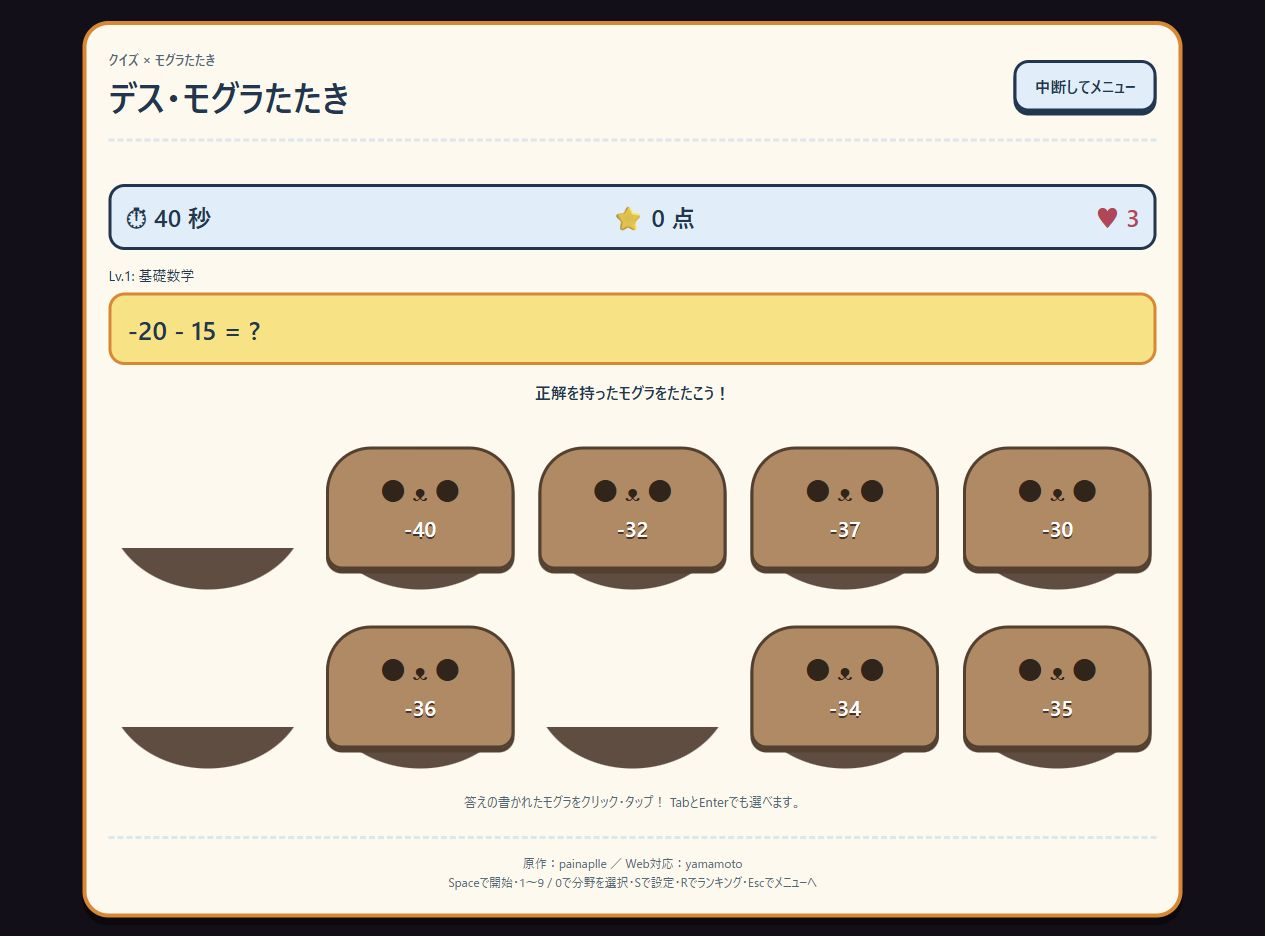
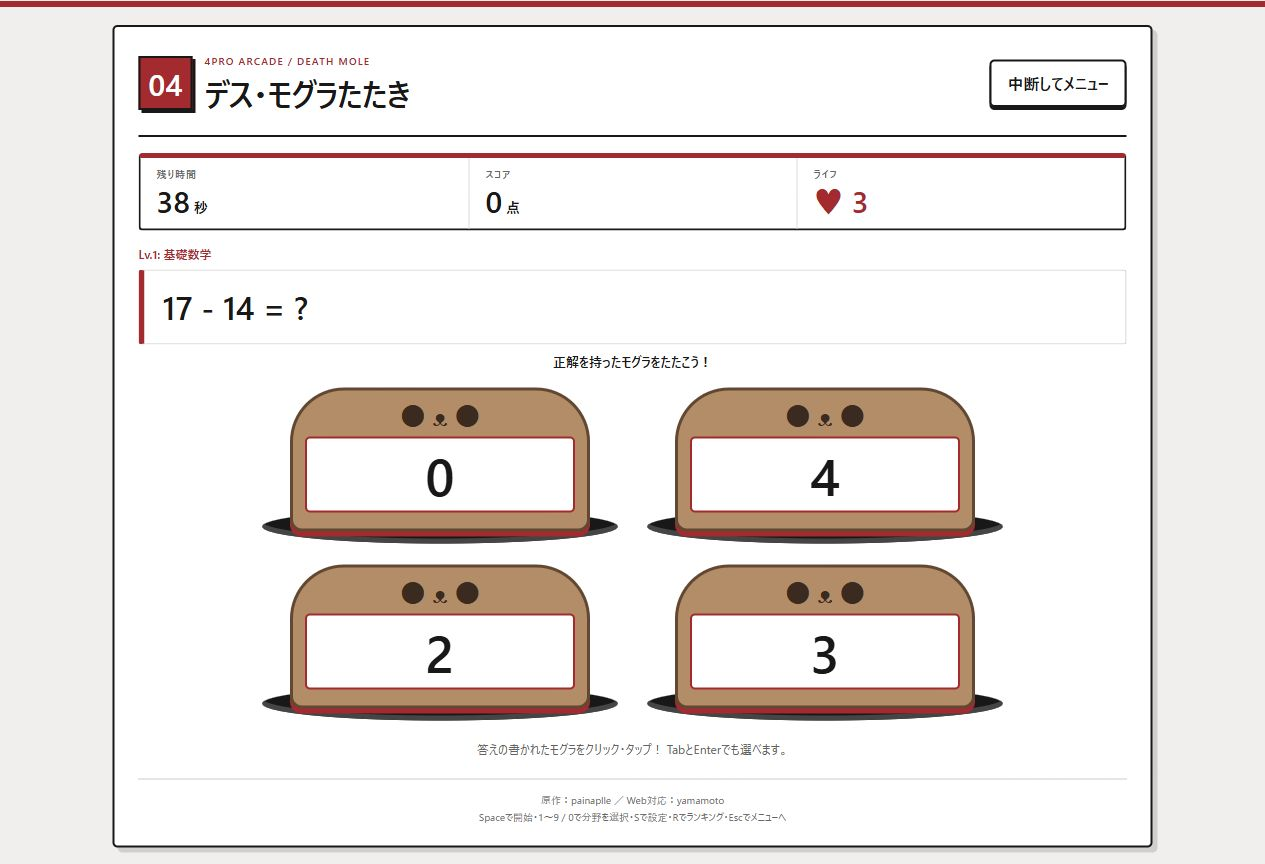
Refresh mole arcade UI with four brown targets and larger answers

diff --git a/games/local/tesuto/web/style.css b/games/local/tesuto/web/style.css
@@ -1,6 +1,33 @@
-:root{--bg:rgb(20,15,25);--accent:rgb(235,130,20);--ink:#183651;--font:system-ui,"Meiryo",sans-serif;color-scheme:light}
-*{box-sizing:border-box}[hidden]{display:none!important}body{margin:0;background:var(--bg);font-family:var(--font);color:var(--ink);padding:20px}main{max-width:1100px;margin:auto;background:#fff9ed;border:4px solid var(--accent);border-radius:26px;box-shadow:0 8px 0 #0006;padding:22px}header{display:flex;justify-content:space-between;gap:16px;align-items:center;border-bottom:3px dashed #d7e7ec;padding-bottom:14px}h1{font-size:clamp(22px,4vw,36px);margin:4px 0}h2{margin:0 0 14px}.eyebrow{font-size:13px;font-weight:800;color:#486879}p{line-height:1.6}button,input,select{font:inherit}button{border:3px solid var(--ink);border-radius:15px;padding:12px 18px;font-weight:900;background:#dceffa;color:var(--ink);box-shadow:0 4px var(--ink);cursor:pointer;transition:transform .12s,background .12s}button:hover:not(:disabled){background:#c2e7fb;transform:translateY(-2px)}button:active:not(:disabled){transform:translateY(3px);box-shadow:0 1px var(--ink)}button:disabled{opacity:.5;cursor:default}button:focus-visible,input:focus-visible,select:focus-visible{outline:4px solid #b660da;outline-offset:3px}.primary{background:#ffe178}.primary:hover:not(:disabled){background:#ffd252}.danger{background:#ffd6d0}.actions{display:flex;flex-wrap:wrap;gap:14px;margin:20px 0}.menu-banner{display:flex;align-items:center;gap:26px;background:#e7f7fc;border-radius:20px;padding:20px;margin-top:18px}.menu-banner p{margin:4px 0}.mascot{font-size:80px}.small-heading{font-size:18px}.levels{display:grid;grid-template-columns:repeat(2,minmax(0,1fr));gap:14px}.level{text-align:left;background:#eff7dc;padding:15px}.level strong{display:block;font-size:18px}.level small{display:block;color:#405666;line-height:1.5;margin-top:5px}.level.selected{background:#ffe178;border-color:var(--accent)}#notice{margin:10px 0;color:#912d43;min-height:1.4em}.dashboard{display:flex;gap:10px;justify-content:space-between;flex-wrap:wrap;background:#dceffa;border:3px solid var(--ink);border-radius:16px;padding:14px;font-size:clamp(16px,2.5vw,24px);font-weight:800;margin-top:10px}#lives{color:#c83a56}.level-name{font-size:14px;margin:14px 0 6px}.question{padding:16px;background:#ffe178;border:3px solid var(--accent);border-radius:16px;font-size:clamp(18px,3vw,26px);overflow-wrap:anywhere}.feedback{text-align:center;font-weight:900;min-height:1.6em;margin:10px}.holes{display:grid;grid-template-columns:repeat(5,minmax(0,1fr));gap:14px;padding:10px 0}.hole{min-width:0;background:linear-gradient(transparent 75%,#654c3f 75%);border-radius:50%;height:165px;display:flex;align-items:flex-end;justify-content:center;padding:0 5px 20px}.mole{width:100%;min-width:0;min-height:123px;background:#bb875f;color:#fff;border:3px solid #5a3f2d;box-shadow:0 4px #5a3f2d;border-radius:45px 45px 16px 16px;padding:12px 8px;position:relative;animation:pop .18s ease-out}.mole:before{content:"● ᴥ ●";display:block;color:#352319;font-size:26px;margin-bottom:7px}.mole span{font-size:clamp(14px,1.9vw,21px);font-weight:900;text-shadow:0 2px #4a3123;overflow-wrap:anywhere;line-height:1.35;display:block}.mole:hover:not(:disabled){background:#ce9567}.mole.hit{background:#df6571}.mole.hit:before{content:"× ᴥ ×"}.help{text-align:center;font-size:13px;color:#486879}.panel{padding:24px 8px}.result-icon{font-size:64px}#result{text-align:center}#name-form{display:flex;flex-direction:column;gap:14px;max-width:430px;margin:20px auto}input,select{border:2px solid var(--ink);border-radius:10px;padding:10px;min-width:0;max-width:100%;background:white;color:var(--ink)}input[type=color]{height:52px;width:100%}.settings-grid{display:grid;grid-template-columns:repeat(2,minmax(0,1fr));gap:18px}label{display:flex;flex-direction:column;gap:8px;font-weight:800}.preview{background:var(--bg);border:4px solid var(--accent);border-radius:18px;text-align:center;margin-top:22px;padding:22px;color:white;font-family:var(--font)}.preview p{color:var(--ink);background:#fff9ed;padding:12px;border-radius:10px}.rank-filters{display:flex;flex-wrap:wrap;gap:16px;margin:20px 0}.table-wrap{overflow:auto}table{border-collapse:collapse;width:100%;text-align:left}th,td{padding:12px 8px;border-bottom:2px solid #d7e7ec;font-size:15px;overflow-wrap:anywhere}th{background:#e7f7fc}td:nth-child(2){max-width:150px}footer{border-top:3px dashed #d7e7ec;margin-top:24px;padding-top:14px;font-size:12px;color:#486879;text-align:center;line-height:1.6}footer span{display:block}@keyframes pop{from{transform:translateY(20px) scale(.85)}to{transform:none}}
-dialog{max-width:min(90vw,440px);border:4px solid var(--ink);border-radius:20px;background:#fff9ed;color:var(--ink);padding:24px}dialog::backdrop{background:#18365199}
-@media(max-width:750px){body{padding:10px}main{padding:14px}.holes{gap:8px}.hole{height:155px}.mole{min-height:115px;padding:10px 5px}.mole:before{font-size:20px}header{flex-wrap:wrap}.levels{gap:10px}.level strong{font-size:16px}.mascot{font-size:55px}.menu-banner{padding:14px;gap:14px}}
-@media(max-width:500px){body{padding:6px}main{padding:12px;border-radius:18px}.levels,.settings-grid{grid-template-columns:1fr}.holes{grid-template-columns:repeat(2,minmax(0,1fr));gap:8px}.hole{height:145px}.mole{min-height:113px}.mole span{font-size:17px}.actions button{flex:1;padding:11px 12px}.menu-banner{align-items:flex-start}.mascot{font-size:40px}.menu-banner h2{font-size:20px}th,td{font-size:12px;padding:9px 5px}}
-@media(prefers-reduced-motion:reduce){*,*:before{animation:none!important;transition:none!important}}
+:root{--bg:#f0efed;--accent:#b71929;--ink:#181818;--font:system-ui,"Meiryo",sans-serif;color-scheme:light}
+*{box-sizing:border-box}[hidden]{display:none!important}
+body{margin:0;background:var(--bg);font-family:var(--font);color:var(--ink);padding:18px;border-top:6px solid var(--accent)}
+main{max-width:1040px;margin:auto;background:#fff;border:2px solid var(--ink);border-radius:5px;box-shadow:5px 5px 0 #18181826;padding:20px 24px}
+header{display:flex;justify-content:space-between;gap:16px;align-items:center;border-bottom:2px solid var(--ink);padding-bottom:16px}
+.game-title{display:flex;align-items:center;gap:12px}.game-number{display:grid;place-items:center;width:54px;height:54px;background:var(--accent);color:#fff;border:2px solid var(--ink);box-shadow:3px 3px var(--ink);font-size:30px;font-weight:900;flex-shrink:0}
+h1{font-size:clamp(22px,3.5vw,32px);margin:4px 0;font-weight:900;letter-spacing:-.03em}h2{margin:0 0 14px}.eyebrow{font-size:10px;letter-spacing:.12em;font-weight:900;color:var(--accent)}p{line-height:1.6}
+button,input,select{font:inherit}button{min-height:44px;border:2px solid var(--ink);border-radius:5px;padding:11px 16px;font-weight:900;background:#fff;color:var(--ink);box-shadow:0 3px var(--ink);cursor:pointer;transition:transform .12s,background .12s}
+button:hover:not(:disabled){background:#f5e4e6;transform:translateY(-2px)}button:active:not(:disabled){transform:translateY(3px);box-shadow:none}button:disabled{opacity:.5;cursor:default}button:focus-visible,input:focus-visible,select:focus-visible{outline:3px solid var(--accent);outline-offset:3px}
+.primary{background:var(--accent);color:#fff}.primary:hover:not(:disabled){background:#8e1120}.danger{background:#181818;color:#fff}.danger:hover:not(:disabled){background:#414141}
+.actions{display:flex;flex-wrap:wrap;gap:12px;margin:20px 0}.menu-banner{display:flex;align-items:center;gap:26px;background:#f4f3f1;border-left:5px solid var(--accent);padding:22px;margin-top:18px}.menu-banner h2{margin:8px 0;font-size:25px}.menu-banner p{margin:4px 0}.banner-label{color:var(--accent);font-size:12px;font-weight:900;letter-spacing:.06em}
+.mascot{position:relative;display:grid;place-items:center;width:105px;height:100px;flex-shrink:0;border-radius:50% 50% 18% 18%;background:#bd8b62;color:#3f291d;font-size:25px;border-bottom:10px solid var(--accent);box-shadow:0 7px 0 #ccc}
+.small-heading{font-size:17px;border-left:4px solid var(--accent);padding-left:10px}.levels{display:grid;grid-template-columns:repeat(2,minmax(0,1fr));gap:12px}.level{text-align:left;padding:14px}.level strong{display:block;font-size:17px}.level small{display:block;color:#626262;line-height:1.5;margin-top:5px}.level.selected{background:#181818;color:#fff;border-color:#181818;box-shadow:0 3px var(--accent)}.level.selected small{color:#ddd}.level.selected:hover:not(:disabled){background:#333}
+#notice{color:#a01122;font-weight:800}#notice:empty{display:none}
+.dashboard{display:grid;grid-template-columns:1fr 1fr 1fr;border:2px solid var(--ink);border-top:5px solid var(--accent);border-radius:4px;font-size:14px;font-weight:800;margin-top:16px;background:#fff}.dashboard>span{padding:9px 16px}.dashboard>span+span{border-left:1px solid #ddd}.dashboard small{display:block;font-size:10px;color:#666;letter-spacing:.08em}.dashboard strong{font-size:30px;font-variant-numeric:tabular-nums;line-height:1.3}#lives{color:var(--accent);white-space:nowrap}
+.level-name{font-size:12px;font-weight:900;color:var(--accent);margin:14px 0 6px}.question{padding:14px 18px;background:#fff;color:#181818;border:1px solid #ccc;border-left:6px solid var(--accent);border-radius:3px;font-size:clamp(22px,3.5vw,32px);overflow-wrap:anywhere;line-height:1.4;margin-bottom:0}
+.feedback{text-align:center;font-weight:900;min-height:1.6em;margin:7px 0;font-size:13px}
+.holes{display:grid;grid-template-columns:repeat(2,minmax(0,1fr));gap:12px 30px;max-width:740px;margin:auto;padding:2px 0 6px}
+.hole{min-width:0;position:relative;min-height:162px;display:flex;align-items:flex-end;justify-content:center;padding:6px 16px 15px}
+.hole::before{content:"";position:absolute;bottom:3px;left:0;right:0;height:34px;border-radius:50%;background:#181818;box-shadow:inset 0 -5px 0 #454545}
+.mole{appearance:none;position:relative;display:flex;flex-direction:column;align-items:center;width:100%;max-width:300px;min-width:0;min-height:144px;background:#bd8b62;color:#3f291d;border:3px solid #69472f;box-shadow:0 5px var(--accent);border-radius:54px 54px 12px 12px;padding:10px 12px 12px;animation:pop .18s ease-out}
+.mole-face{position:relative;display:block;width:110px;max-width:90%;height:30px;margin:0 auto 6px;font-size:26px;line-height:30px;color:#3f291d}.mole-face::before{content:"● ᴥ ●"}.mole-face::after{content:"";position:absolute;left:-10px;right:-10px;top:-15px;height:27px;border:8px solid #bd8b62;border-bottom:0;border-radius:40px;z-index:-1}
+.mole .answer{display:flex;align-items:center;justify-content:center;width:100%;min-height:76px;padding:4px 8px;background:#fff;color:#181818;border:2px solid var(--accent);border-radius:5px;font-size:52px;font-weight:900;font-variant-numeric:tabular-nums;line-height:1.15;overflow-wrap:anywhere}
+.mole.word-answer .answer{font-size:clamp(23px,2.7vw,30px);line-height:1.3}
+.mole:hover:not(:disabled){background:#d5a47a}.mole:hover:not(:disabled) .answer{border-color:#181818}.mole:disabled{opacity:1}.mole:focus-visible{outline-offset:5px;outline:4px solid var(--accent)}.mole.hit{background:#dec0a0;color:#3f291d;box-shadow:none}.mole.hit .mole-face{color:#3f291d}.mole.hit .mole-face::before{content:"× ᴥ ×"}.mole.hit .answer{background:#eee;color:#666}.help{text-align:center;font-size:12px;color:#626262;margin:10px 0}
+.panel{padding:24px 8px}.result-icon{font-size:48px}#result{text-align:center}#result h2{font-size:28px}#result-stats{padding:16px;border-top:2px solid var(--accent);border-bottom:1px solid #ccc;font-weight:800}#name-form{display:flex;flex-direction:column;gap:14px;max-width:430px;margin:20px auto}
+input,select{border:2px solid var(--ink);border-radius:4px;padding:10px;min-width:0;max-width:100%;background:white;color:var(--ink)}input[type=color]{height:52px;width:100%}.settings-grid{display:grid;grid-template-columns:repeat(2,minmax(0,1fr));gap:18px}label{display:flex;flex-direction:column;gap:8px;font-weight:800}.preview{background:var(--bg);border:3px solid var(--accent);border-radius:5px;text-align:center;margin-top:22px;padding:22px;color:#181818;font-family:var(--font)}.preview strong{background:#fff;padding:6px 10px}.preview p{color:#181818;background:#fff;padding:12px;border-radius:4px}
+.rank-filters{display:flex;flex-wrap:wrap;gap:16px;margin:20px 0}.table-wrap{overflow:auto}table{border-collapse:collapse;width:100%;text-align:left}th,td{padding:12px 8px;border-bottom:1px solid #ccc;font-size:15px;overflow-wrap:anywhere}th{background:#181818;color:#fff}td:nth-child(2){max-width:150px}tbody tr:first-child{background:#f6e9eb;font-weight:800}
+footer{border-top:1px solid #ccc;margin-top:20px;padding-top:12px;font-size:10px;color:#666;text-align:center;line-height:1.7}footer span{display:block}dialog{max-width:min(90vw,440px);border:3px solid var(--ink);border-top:6px solid var(--accent);border-radius:5px;background:#fff;color:var(--ink);padding:24px}dialog::backdrop{background:#181818b3}
+@keyframes pop{from{transform:translateY(14px) scale(.95)}to{transform:none}}
+@media(max-width:750px){body{padding:10px}main{padding:16px}header{flex-wrap:wrap}.holes{gap:10px 18px}.level strong{font-size:16px}.menu-banner{padding:16px;gap:18px}.mascot{width:80px;height:80px;font-size:22px}}
+@media(max-width:500px){body{padding:6px}main{padding:12px}.game-title{gap:9px}.game-number{width:42px;height:44px;font-size:25px}h1{font-size:22px}.eyebrow{font-size:8px}.levels,.settings-grid{grid-template-columns:1fr}.dashboard>span{padding:8px}.dashboard strong{font-size:24px}.dashboard{font-size:11px}.question{padding:12px;font-size:23px}.holes{gap:12px 10px}.hole{padding:6px 6px 13px;min-height:157px}.mole{padding:10px 7px;min-height:137px;border-radius:42px 42px 10px 10px}.mole-face{font-size:23px;height:26px;line-height:26px;width:94px}.mole .answer{font-size:40px;min-height:74px;padding:5px}.mole.word-answer .answer{font-size:22px}.actions button{flex:1;padding:11px 12px}.menu-banner{align-items:center;gap:12px}.mascot{width:58px;height:65px;font-size:16px}.menu-banner h2{font-size:20px}.menu-banner p{font-size:12px}.banner-label{font-size:10px!important}.feedback{font-size:12px}th,td{font-size:12px;padding:9px 5px}.panel{padding:22px 0}.help{font-size:11px}}
+@media(prefers-reduced-motion:reduce){*,*::before{animation:none!important;transition:none!important}}

diff --git a/launcher/mole-technology.html b/launcher/mole-technology.html
@@ -23,7 +23,7 @@
       <h1 id="title-1" tabindex="-1">モグラの画面と、クイズの中身を分ける。</h1>
       <p class="lead">Webで操作を受け取り、Pythonが出題と正誤を判断します。</p>
       <div class="screen-layout">
-        <figure class="game-figure"><div class="image-frame whole-game"><img src="/showcase/assets/brain-mole-play.png" alt="デス・モグラたたきのプレイ画面。計算問題と答えを持ったモグラ、得点と残り時間。"></div><figcaption>実際のゲーム画面</figcaption></figure>
+        <figure class="game-figure"><div class="image-frame whole-game"><img src="/showcase/assets/brain-mole-play.png" alt="デス・モグラたたきのプレイ画面。赤・黒・白の画面に計算問題、2×2の4匹のモグラ、大きな答えの札、得点と残り時間。"></div><figcaption>実際のゲーム画面</figcaption></figure>
         <div class="technology-cards"><article class="technology html-card"><span class="tech-number">1</span><div><h2>HTML / CSS / JS <small>操作と表示</small></h2><p>問題・モグラ・時間を画面に表示。</p></div></article><article class="technology css-card"><span class="tech-number">2</span><div><h2>Python <small>出題と判定</small></h2><p>問題と選択肢を選び、得点を計算。</p></div></article><article class="technology js-card"><span class="tech-number">3</span><div><h2>Excel <small>問題のデータ</small></h2><p>問題・正解・誤答を表で用意。</p></div></article></div>
       </div>
       <p class="takeaway"><span>ここがポイント</span>画面・ゲームの処理・問題データを分けると、それぞれ編集しやすい。</p>
@@ -32,11 +32,11 @@
     <section class="slide illustrated-slide" id="page-2" aria-labelledby="title-2">
       <div class="slide-heading"><p class="chapter">02 <span>出題から回答までのしくみ</span></p><span class="topic">Excel / ランダム / 通信</span></div>
       <h1 id="title-2" tabindex="-1">問題を読み、答えをモグラに持たせる。</h1>
-      <p class="lead">正解と誤答を、10個の穴の中から選んだ場所に出します。</p>
+      <p class="lead">正解1匹と誤答3匹を、2×2の4個の穴にランダムに出します。</p>
 <ol class="flow" aria-label="処理の順番"><li><span>1</span><b>問題を用意</b><small>Excelや計算で作成</small></li><li><span>2</span><b>モグラを出す</b><small>穴と答えを選ぶ</small></li><li><span>3</span><b>答えをタップ</b><small>穴の番号を送信</small></li><li><span>4</span><b>正誤を判定</b><small>Pythonが得点更新</small></li></ol>
       <div class="concept-layout">
         <div class="diagram-panel quiz-diagram" role="img" aria-label="説明用の例。問題3足す4の正解7と誤答6と8をモグラに割り当て、正解のモグラを押すとPythonが判定する。"><span class="diagram-label">説明用の問題</span><div class="quiz-question">3 ＋ 4 ＝ ?</div><div class="answer-moles"><div><span>● ᴥ ●</span><b>6</b></div><div class="correct-mole"><span>● ᴥ ●</span><b>7</b><small>正解</small></div><div><span>● ᴥ ●</span><b>8</b></div></div><p>配置をランダムに選ぶ → タップを判定</p></div>
-        <div class="explain"><p class="big-equation">Excelの問題表を <strong>Pythonで読み込む</strong></p><p>openpyxlというライブラリを使用。<br>基礎数学では、四則演算の問題を<br>自動でつくる処理もあります。</p><div class="canvas-note"><b>毎回、場所が変わる</b><p>2〜10匹をランダムに配置。<br>答えずに待つと2〜4秒で出し直します。</p></div></div>
+        <div class="explain"><p class="big-equation">Excelの問題表を <strong>Pythonで読み込む</strong></p><p>openpyxlというライブラリを使用。<br>基礎数学では、四則演算の問題を<br>自動でつくる処理もあります。</p><div class="canvas-note"><b>毎回、場所が変わる</b><p>4匹の答えをランダムに配置。<br>答えずに待つと2〜4秒で出し直します。</p></div></div>
       </div>
       <p class="takeaway"><span>ここがポイント</span>問題のデータと、ランダムな配置を組み合わせると、出題を変えられる。</p>
     </section>

diff --git a/games/local/tesuto/web/game.js b/games/local/tesuto/web/game.js
@@ -2,7 +2,7 @@
 const $ = id => document.getElementById(id);
 let token='', state=null, view='menu', selectedLevel=1, busy=false, rankRequest=0;
 const fonts=['system-ui,"Meiryo",sans-serif','"Yu Mincho","MS Mincho",serif','"Meiryo","Arial Rounded MT Bold",sans-serif'];
-const defaults={bg_rgb:[20,15,25],accent_rgb:[235,130,20],custom_time:45,custom_lives:3,font_idx:0};
+const defaults={bg_rgb:[240,239,237],accent_rgb:[183,25,41],custom_time:45,custom_lives:3,font_idx:0};
 const rgbHex=rgb=>'#'+rgb.map(v=>v.toString(16).padStart(2,'0')).join('');
 const hexRgb=hex=>[1,3,5].map(i=>parseInt(hex.slice(i,i+2),16));
 function theme(settings){
@@ -45,11 +45,11 @@ function draw(){
  $('time').textContent=Math.ceil(state.time_left);$('score').textContent=state.score;
  $('lives').textContent=`♥ ${state.lives}`;$('level-name').textContent=state.levels[state.level-1][0];
  $('question').textContent=state.question;$('feedback').textContent=state.feedback;
- for(let hole=0;hole<10;hole++){
+ for(let hole=0;hole<state.hole_count;hole++){
   const mole=state.moles.find(m=>m.hole===hole),button=$('mole-'+hole);
   button.hidden=!mole;button.disabled=busy||!mole||mole.hit;
   button.classList.toggle('hit',Boolean(mole?.hit));
-  if(mole){button.querySelector('span').textContent=mole.value;button.setAttribute('aria-label',`穴${hole+1}：${mole.value}`);button.dataset.wave=state.wave;}
+  if(mole){const answer=button.querySelector('.answer');answer.textContent=mole.value;button.classList.toggle('word-answer',!/^[−+\-]?\d+(\.\d+)?$/.test(mole.value)||mole.value.length>5);button.setAttribute('aria-label',`穴${hole+1}：${mole.value}`);button.dataset.wave=state.wave;}
  }
  $('result-stats').textContent=`${state.levels[state.level-1][0]} ／ ${state.score}点 ／ 残り${state.time_left.toFixed(1)}秒 ／ ライフ${state.lives}`;
  $('submit').disabled=busy||state.submitted;$('submit').textContent=state.submitted?'登録しました ✓':'ランキングに登録';
@@ -78,13 +78,14 @@ async function loadRankings(){
  }catch(error){$('notice').textContent=error.message;}
 }
 async function openRanking(){if(!state||busy)return;$('rank-level').value=selectedLevel;show('ranking');await loadRankings();}
-for(let i=0;i<10;i++){
+function buildHoles(count){for(let i=0;i<count;i++){
  const hole=document.createElement('div');hole.className='hole';
  const button=document.createElement('button');button.id='mole-'+i;button.className='mole';button.hidden=true;
- button.append(document.createElement('span'));
+ const face=document.createElement('span');face.className='mole-face';face.setAttribute('aria-hidden','true');
+ const answer=document.createElement('span');answer.className='answer';button.append(face,answer);
  button.addEventListener('click',()=>action('hit',{hole:i,wave:Number(button.dataset.wave)}));
  hole.append(button);$('holes').append(hole);
-}
+}}
 $('start').onclick=start;$('retry').onclick=start;
 $('menu-button').onclick=menu;$('result-menu').onclick=menu;$('rank-menu').onclick=menu;
 $('settings-button').onclick=openSettings;$('ranking-button').onclick=openRanking;
@@ -114,6 +115,7 @@ document.addEventListener('keydown',event=>{
 (async()=>{
  try{
   const session=await request('session');token=session.token;
+  buildHoles(session.state.hole_count);
   session.state.levels.forEach(([title,description],index)=>{
    const button=document.createElement('button');button.className='level';button.dataset.level=index+1;
    const strong=document.createElement('strong');strong.textContent=title;const small=document.createElement('small');small.textContent=description;button.append(strong,small);

diff --git a/games/local/tesuto/web/index.html b/games/local/tesuto/web/index.html
@@ -1,15 +1,15 @@
 <!doctype html>
-<html lang="ja"><head><meta charset="utf-8"><meta name="viewport" content="width=device-width,initial-scale=1"><title>デス・モグラたたき</title><link rel="stylesheet" href="style.css"></head>
+<html lang="ja"><head><meta charset="utf-8"><meta name="viewport" content="width=device-width,initial-scale=1"><meta name="theme-color" content="#b71929"><title>デス・モグラたたき</title><link rel="stylesheet" href="style.css"></head>
 <body><main>
-<header><div><span class="eyebrow">クイズ × モグラたたき</span><h1>デス・モグラたたき</h1></div><button id="menu-button" hidden>中断してメニュー</button></header>
+<header><div class="game-title"><span class="game-number" aria-hidden="true">04</span><div><span class="eyebrow">4PRO ARCADE / DEATH MOLE</span><h1>デス・モグラたたき</h1></div></div><button id="menu-button" hidden>中断してメニュー</button></header>
 <p id="notice" role="status" aria-live="polite"></p>
 <section id="menu" hidden>
- <div class="menu-banner"><span class="mascot" aria-hidden="true">🐹</span><div><h2>正解のモグラをたたこう！</h2><p>正解で＋100点。まちがえるとライフが減るよ。</p><p id="rules"></p></div></div>
+ <div class="menu-banner"><span class="mascot" aria-hidden="true">● ᴥ ●</span><div><p class="banner-label">4匹から、正解をねらえ。</p><h2>正解のモグラをたたこう！</h2><p>正解で＋100点。まちがえるとライフが減るよ。</p><p id="rules"></p></div></div>
  <div class="actions"><button id="start" class="primary" disabled>ゲームスタート ▶</button><button id="ranking-button">🏆 ランキング</button><button id="settings-button">⚙ 設定</button></div>
  <h2 class="small-heading">挑戦する分野を選ぼう</h2><div id="levels" class="levels"></div>
 </section>
 <section id="play" hidden>
- <div class="dashboard"><span>⏱ <strong id="time">45</strong> 秒</span><span>⭐ <strong id="score">0</strong> 点</span><span id="lives"></span></div>
+ <div class="dashboard"><span><small>残り時間</small><strong id="time">45</strong> 秒</span><span><small>スコア</small><strong id="score">0</strong> 点</span><span class="life-stat"><small>ライフ</small><strong id="lives"></strong></span></div>
  <p id="level-name" class="level-name"></p><h2 id="question" class="question"></h2>
  <p id="feedback" class="feedback" aria-live="polite"></p><div id="holes" class="holes" aria-label="回答のモグラ"></div>
  <p class="help">答えの書かれたモグラをクリック・タップ！ TabとEnterでも選べます。</p>

diff --git a/games/local/tesuto/web_game.py b/games/local/tesuto/web_game.py
@@ -8,7 +8,8 @@ import time
 
 from quiz_database import DEFAULT_PATH, QuestionDatabase
 
-DEFAULTS = dict(bg_rgb=[20, 15, 25], accent_rgb=[235, 130, 20], custom_time=45, custom_lives=3, font_idx=0)
+DEFAULTS = dict(bg_rgb=[240, 239, 237], accent_rgb=[183, 25, 41], custom_time=45, custom_lives=3, font_idx=0)
+HOLE_COUNT = 4
 
 
 def integer(value, low, high):
@@ -37,6 +38,9 @@ class Store:
         self.folder = Path(folder)
         self.folder.mkdir(parents=True, exist_ok=True)
         self.settings = validated_settings(self.load('settings.json', Path(original)/'mole_settings.json', DEFAULTS))
+        # 旧標準配色だけを更新し、時間・ライフや独自の配色は保持する。
+        if self.settings['bg_rgb'] == [20, 15, 25] and self.settings['accent_rgb'] == [235, 130, 20]:
+            self.settings.update(bg_rgb=DEFAULTS['bg_rgb'][:], accent_rgb=DEFAULTS['accent_rgb'][:])
         self.rankings = self.load('rankings.json', Path(original)/'mole_rankings.json', {str(i): [] for i in range(1, 11)})
         if not isinstance(self.rankings, dict):
             raise ValueError("ランキングの形式が不正です。")
@@ -118,7 +122,7 @@ class WebGame:
     def spawn(self):
         self.wave += 1
         self.revision += 1
-        holes = self.rng.sample(range(10), self.rng.randint(2, 10))
+        holes = self.rng.sample(range(HOLE_COUNT), HOLE_COUNT)
         self.expires = self.clock() + self.rng.randint(60, 120) / 30
         dummies = self.dummies[:]
         self.rng.shuffle(dummies)
@@ -141,7 +145,7 @@ class WebGame:
         self.tick()
         if self.phase != 'playing':
             raise ValueError("プレイ中だけ回答できます。")
-        hole = integer(data.get('hole'), 0, 9)
+        hole = integer(data.get('hole'), 0, HOLE_COUNT-1)
         if type(data.get('wave')) is not int or data['wave'] != self.wave:
             raise ValueError("モグラが入れ替わりました。もう一度選んでください。")
         mole = next((m for m in self.moles if m['hole'] == hole and not m['hit_until']), None)
@@ -187,5 +191,5 @@ class WebGame:
         self.tick()
         return dict(phase=self.phase, level=self.level, score=self.score, lives=self.lives, time_left=round(self.time_left, 2),
                     wave=self.wave, revision=self.revision, stamp=self.clock(), question=self.question, feedback=self.feedback,
-                    submitted=self.submitted, settings=copy.deepcopy(self.settings), levels=self.database.level_infos,
+                    submitted=self.submitted, settings=copy.deepcopy(self.settings), levels=self.database.level_infos, hole_count=HOLE_COUNT,
                     moles=[dict(hole=m['hole'], value=m['value'], hit=bool(m['hit_until'])) for m in self.moles] if self.phase == 'playing' else [])

diff --git a/games/local/tesuto/tests/test_web.py b/games/local/tesuto/tests/test_web.py
@@ -61,6 +61,34 @@ class ProgressTests(unittest.TestCase):
         self.hit(False)
         self.assertEqual(self.game.phase, 'result')
 
+    def test_four_targets_keep_one_correct_answer_at_random_positions(self):
+        positions = set()
+        for level in range(1, 11):
+            self.game.stop()
+            self.start(level)
+            for _ in range(20):
+                snapshot = self.game.snapshot()
+                self.assertEqual(snapshot['hole_count'], 4)
+                self.assertEqual({m['hole'] for m in snapshot['moles']}, set(range(4)))
+                correct = [m for m in self.game.moles if m['correct']]
+                self.assertEqual(len(correct), 1)
+                self.assertEqual(correct[0]['value'], str(self.game.answer))
+                self.assertTrue(all(m['value'] != str(self.game.answer) for m in self.game.moles if not m['correct']))
+                positions.add(correct[0]['hole'])
+                self.game.next_question()
+        self.assertEqual(positions, set(range(4)))
+
+    def test_old_default_palette_migrates_without_losing_other_settings(self):
+        legacy = self.folder/'legacy'
+        legacy.mkdir()
+        old = {**DEFAULTS, 'bg_rgb': [20, 15, 25], 'accent_rgb': [235, 130, 20], 'custom_time': 90, 'custom_lives': 5}
+        (legacy/'mole_settings.json').write_text(json.dumps(old), encoding='utf-8')
+        migrated = Store(self.folder/'migrated', legacy)
+        self.assertEqual(migrated.settings, {**DEFAULTS, 'custom_time': 90, 'custom_lives': 5})
+        custom = {**old, 'accent_rgb': [100, 20, 30]}
+        migrated.configure(custom)
+        self.assertEqual(Store(self.folder/'migrated', legacy).settings, custom)
+
     def test_hit_repeat_and_old_wave_cannot_change_score(self):
         self.start()
         bad = next(m for m in self.game.moles if not m['correct'])
@@ -141,7 +169,7 @@ class ProgressTests(unittest.TestCase):
         self.start()
         with self.assertRaises(ValueError):
             self.start()
-        for hole in (True,-1,10,'1'):
+        for hole in (True,-1,4,9,10,'1'):
             with self.assertRaises(ValueError):
                 self.game.hit({'hole':hole,'wave':self.game.wave})
         self.game.stop()

diff --git a/games/local/tesuto/README.md b/games/local/tesuto/README.md
@@ -13,7 +13,7 @@ python web.py --port 8766
 
 表示された `http://127.0.0.1:8766/` をブラウザーで開きます。Python 3.11以降とExcel読込用の `openpyxl` を使います。PygameとExcelアプリのインストールはWeb版の実行には不要です。4Pro Arcadeでは `kind: service` として `web.py` を起動すると、ゲーム一覧の画面内で遊べます。
 
-10分野から選び、正解の答えが書かれたモグラをクリック・タップします。正解で＋100点、不正解で−50点（0点未満にはならない）とライフ−1です。モグラは2〜10匹、2〜4秒出現します。ライフが0になるか時間切れになると終了し、10文字以内の名前でランキングを登録できます。空欄は `NO_NAME` になります。
+10分野から選び、正解の答えが書かれたモグラをクリック・タップします。正解で＋100点、不正解で−50点（0点未満にはならない）とライフ−1です。穴は2×2の4個で、正解1匹と誤答3匹の計4匹が2〜4秒出現します。答えは大きな白い札に表示します。ライフが0になるか時間切れになると終了し、10文字以内の名前でランキングを登録できます。空欄は `NO_NAME` になります。
 
 - Space：開始。1〜9 / 0：分野を選ぶ（0はLv.10）。
 - S：設定。R：ランキング。ランキングでは1〜9 / 0で分野切替、Spaceでメニュー。
@@ -24,7 +24,7 @@ python web.py --port 8766
 
 ## 保存と元の版との違い
 
-Web版は初回に元の `mole_settings.json` と `mole_rankings.json` を読み、`.web-data/settings.json` と `.web-data/rankings.json` にコピーします。以後はWeb専用の記録を使用し、設定・記録の消去も元の版には影響しません。Web専用ファイルはGit管理から除外しています。設定・ランキングはこのPC上で共有し、各画面のプレイ状態は別々に管理します。
+Web版は初回に元の `mole_settings.json` と `mole_rankings.json` を読み、`.web-data/settings.json` と `.web-data/rankings.json` にコピーします。以後はWeb専用の記録を使用し、設定・記録の消去も元の版には影響しません。Web専用ファイルはGit管理から除外しています。旧標準の紫・オレンジ配色は赤・白・黒の標準配色に移行します。独自の配色・時間・ライフ設定は保持します。設定・ランキングはこのPC上で共有し、各画面のプレイ状態は別々に管理します。
 
 元の版は30FPSで残り時間を減らします。Web版はPythonサーバーの実時間で判定するため、タブが隠れていても時間が進みます。Escでブラウザーを閉じる代わりにメニューに戻ります。ゲーム一覧へ戻るとサーバーが停止し、途中のプレイは終了します。登録済みの記録は次回も残ります。
 

diff --git a/showcase/assets/technology.md b/showcase/assets/technology.md
@@ -11,11 +11,11 @@
 
 ## 追加4作品
 
-以下もこのPCで実際のゲームを起動して撮影しています。風船ハンター・ゆうぐれ釣り日和・リアルタイムチェスは2026年10月29日、デス・モグラたたきは2026年10月13日の撮影です。生成画像ではありません。
+以下もこのPCで実際のゲームを起動して撮影しています。追加4作品はいずれも2026年10月29日の撮影です。生成画像ではありません。
 
 - `balloon-hunter-play.png`：`games/local/3hu/` のプレイ画面。青空・緑の丘・カラフルな風船は最初の見た目を使い、外枠・得点欄・ボタンを赤・白・黒に統一しています。得点は色に関係なく、小型3点・中型2点・大型1点です。
 - `yuugure-fishing-play.png`：`games/local/2026_4Pro_fishinggame/` の釣り画面。夕暮れの景色、魚・ウキの絵、ゲーム処理はそのままに、外枠・操作ボタン・情報パネルを赤・白・黒に統一しています。
 - `realtime-chess-ready.png`：`games/local/chess/` の開始前の盤面と設定。白と黒の盤面、上側の赤い駒と下側の白い駒に赤い操作ボタンと黒い外枠を合わせています。選択中は赤枠、移動先は赤い丸、直前の移動は角の三角印、王手は「!」で区別します。
-- `brain-mole-play.png`：`games/local/tesuto/` の基礎数学のプレイ画面。
+- `brain-mole-play.png`：`games/local/tesuto/` の基礎数学のプレイ画面。赤・黒・白のUIに統一し、穴を2×2の4個に減らし、茶色のモグラに大きな白い答えの札を持たせています。
 
 図はHTMLとCSSによる説明用の模式図です。魚の割合・反応時間は `fishing.js` の魚データ、チェスの待ち時間・AIは `web_game.py` と `chess/ai.py`、クイズの得点・時間は `tesuto/web_game.py` に対応します。ゲーム側の設定を変えたときは本文と図、画像の代替テキストも合わせて更新してください。
